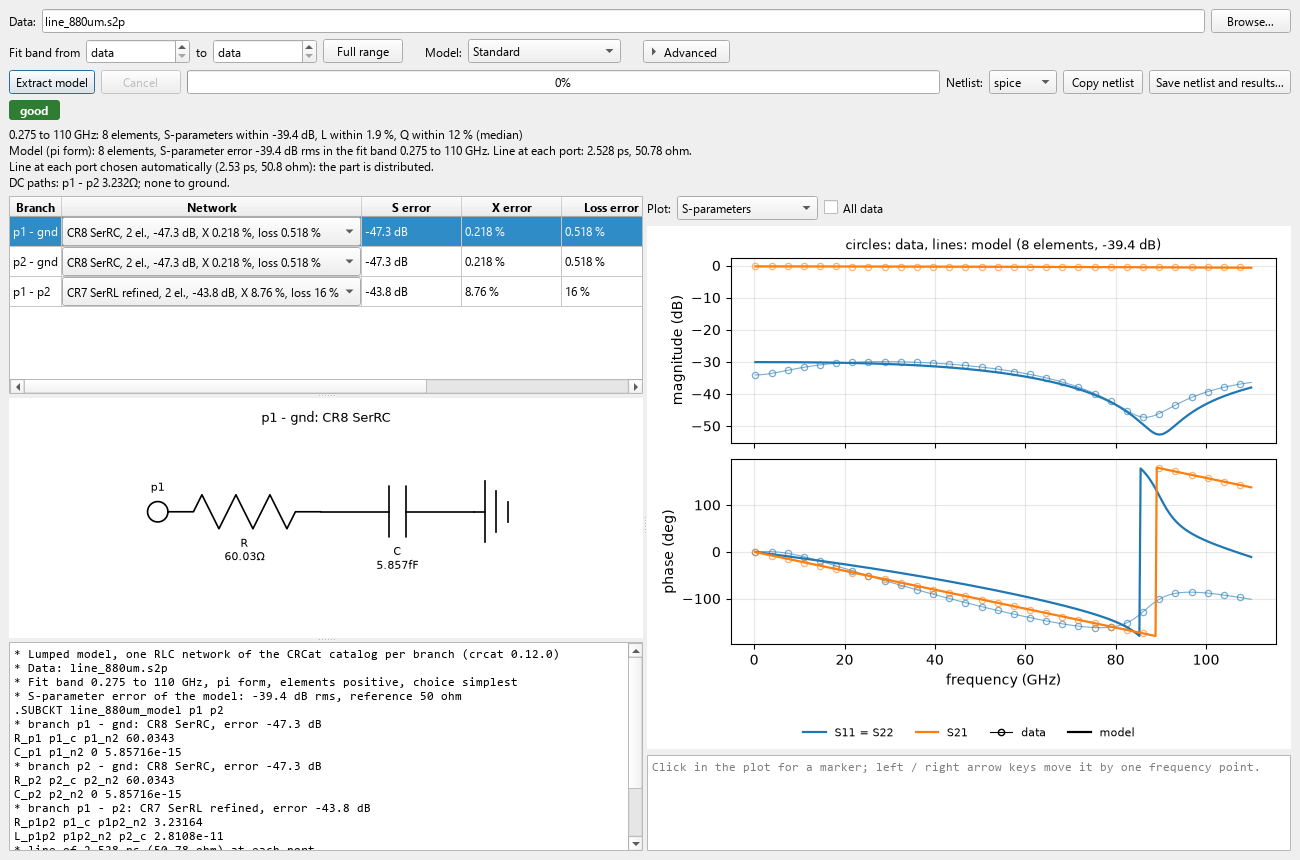
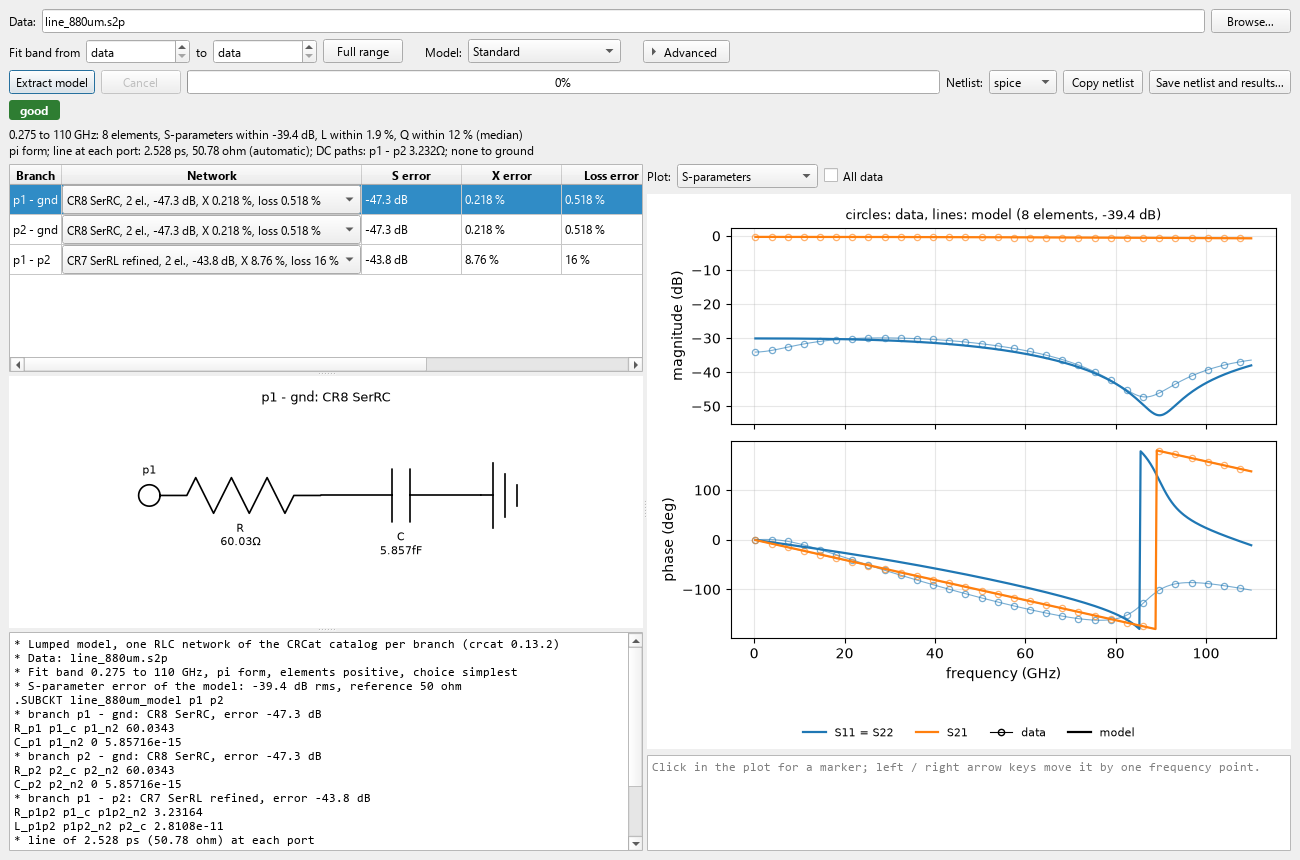
Window: shorter status text, details in the tooltip, 0.13.2
DataCheck.brief(): the data check in at most three short lines. After a fit
the status is the verdict line and one line on how the model is built; the
full texts are the tooltip.

diff --git a/src/crcat/check.py b/src/crcat/check.py
@@ -56,6 +56,7 @@ class DataCheck:
     def __init__(self):
         self.kind = self.verdict = self.form = None
         self.reasons, self.couplings, self.branches = [], [], {}
+        self.short = []                          # the reasons in a few words each
         self.fmax = self.srf = self.line = self.port_line = self.port_lines = None
         self.line_groups = []
         self.left_out = None
@@ -69,6 +70,18 @@ class DataCheck:
 
     def significant(self, form=None):
         return [b for b in self.branches.get(form or self.form, []) if not b.negligible]
+
+    def brief(self):
+        """The check in at most three short lines, for a window: what the data are, what
+        follows for the model, what was left out. :meth:`lines` has the details."""
+        out = [f'{self.kind}, {self.nports} port(s), {self.band[0] / 1e9:.3g} to '
+               f'{self.band[1] / 1e9:.3g} GHz, {self.points} points'
+               + (f', resonance at {self.srf / 1e9:.3g} GHz' if self.srf else '')]
+        out.append('; '.join(self.short))
+        if self.left_out:
+            out.append(f'{self.left_out[0]} points below {self.left_out[2] / 1e9:.3g} GHz left out '
+                       f'(DC only)')
+        return out
 
     def lines(self):
         """The check as a few lines of text."""
@@ -247,6 +260,8 @@ def check(network, fmin=None, fmax=None, target_db=-40.0, trim_low=True):
         c.reasons.append(f'{len(unphys)} of {len(signif)} branches of the data have a negative '
                          f'real part (in the {c.form} form), which no network of positive R, L, C '
                          f'gives: a structure of coupled or distributed conductors')
+        c.short.append(f'{len(unphys)} of {len(signif)} branches cannot be made of positive '
+                       f'R, L, C: coupled or distributed conductors')
     elif degrees > DISTRIBUTED_DEG:
         c.verdict = 'limited'
         c.reasons.append(f'the part is {degrees:.0f} deg long at {f[-1] / 1e9:.4g} GHz, distributed: '
@@ -254,16 +269,24 @@ def check(network, fmin=None, fmax=None, target_db=-40.0, trim_low=True):
                          f'{c.fmax / 1e9:.3g} GHz ({LUMPED_DEG} deg); for the whole band a line of '
                          f'{c.port_line["z0"]:.3g} ohm and {c.port_line["delay"] * 1e12:.3g} ps at each '
                          f'port is tried')
+        c.short.append(f'{degrees:.0f} deg long at {f[-1] / 1e9:.3g} GHz: a line at each port '
+                       f'is added ({c.port_line["z0"]:.3g} ohm, '
+                       f'{c.port_line["delay"] * 1e12:.3g} ps)')
     elif left:
         c.verdict = 'limited'
         c.reasons.append('branch ' + ', '.join(b.name for b in left) + ' of the data has a negative '
                          'real part; a narrower band or negative L and C may be needed')
+        c.short.append('branch ' + ', '.join(b.name for b in left) + ' has a negative real part: '
+                       'try a narrower band or negative L and C')
     else:
         c.verdict = 'suited'
         c.reasons.append(f'{len(signif)} branch(es) to model in the {c.form} form')
+        c.short.append(f'{len(signif)} branch' + ('' if len(signif) == 1 else 'es')
+                       + f', {c.form} form')
         for name in sorted({f'p{p[0]} - p{p[1]}' for p, _ in c.couplings}):
             c.reasons.append(f'magnetic coupling at branch {name} (k about {coupled[name]:.2f}): '
                              f'coupled coils will be tried')
+            c.short.append(f'coupled coils for {name} (k {coupled[name]:.2f})')
     if c.port_line:
         c.port_lines = [dict(c.port_line), dict(c.port_line)]
     if n > 2:
@@ -274,12 +297,17 @@ def check(network, fmin=None, fmax=None, target_db=-40.0, trim_low=True):
                     + f' are joined by conductors up to {max(g["degrees"] for g in long):.0f} deg '
                     f'long, distributed: a line at each of these ports is tried')
             c.verdict, c.reasons = 'limited', [text]     # the lines change what the rest is
+            c.short = ['ports ' + '; '.join(', '.join(f'p{p}' for p in g['ports']) for g in long)
+                       + f' are up to {max(g["degrees"] for g in long):.0f} deg apart: a line at '
+                       f'each of them is added']
     many = [b.name for b in signif if b.resonances > 2]
     if many and c.verdict != 'not suited':
         c.reasons.append('branch ' + ', '.join(many) + ' has more than two resonances in the band: '
                          'five elements may not be enough')
+        c.short.append(', '.join(many) + ': more than two resonances')
     if not c.passive:
         c.reasons.append('the data are not passive')
+        c.short.append('data not passive')
     return c
 
 

diff --git a/src/crcat/gui/main_window.py b/src/crcat/gui/main_window.py
@@ -404,7 +404,8 @@ class MainWindow(QMainWindow):
             self._show_verdict('', [])
             return
         self.data_check = c
-        self.status.setText(pathlib.Path(self._loaded).name + ': ' + '\n'.join(c.lines()))
+        self.status.setText(pathlib.Path(self._loaded).name + ': ' + '\n'.join(c.brief()))
+        self.status.setToolTip('\n'.join(c.lines()))        # the details
         suggestions = []
         if c.fmax:
             suggestions.append(advice.Suggestion(f'Fit to {c.fmax / 1e9:.3g} GHz',
@@ -687,17 +688,21 @@ class MainWindow(QMainWindow):
             self.table.item(row, 4).setText(shown.loss_text() if branch else '-')
             self.table.item(row, 5).setText(shown.values_text())
         warnings = m.warnings()
-        text = (f'Model ({m.form} form): {m.n_elements()} elements, S-parameter error {m.error_db():.1f} dB rms '
-                f'in the fit band {m.freq[0] / 1e9:.6g} to {m.freq[-1] / 1e9:.6g} GHz.')
+        # one line for the result, one for how the model is built; details in the tooltip
+        parts = [f'{m.form} form']
         if m.delay:
-            text += ' ' + m.lines_text()[0].upper() + m.lines_text()[1:] + '.'
-        if m.line_note:
-            text += '\n' + m.line_note[0].upper() + m.line_note[1:] + '.'
-        text += '\n' + m.dc_text() + '.'
+            parts.append(m.lines_text() + (' (automatic)' if 'automatically' in m.line_note else ''))
+        elif m.line_note:
+            parts.append(m.line_note)
+        parts.append(m.dc_text())
+        if m.left_out:
+            parts.append(f'{m.left_out[0]} points below {m.left_out[2] / 1e9:.3g} GHz left out')
+        text = '; '.join(parts)
         if warnings:
             text += '\nWarning: ' + '\nWarning: '.join(warnings)
         self.assessment = a = advice.assess(m, self.network, self.data_check)
         self.status.setText(a.text + '\n' + text)
+        self.status.setToolTip('\n'.join(model.describe(m)))
         self._show_verdict(a.level, a.suggestions)
         self.copy_button.setEnabled(True)
         self.copy_button.setText('Copy netlist')

diff --git a/tests/test_easy.py b/tests/test_easy.py
@@ -81,6 +81,8 @@ def test_check_kinds_and_verdicts():
     assert abs(c.line['L'] - 0.4e-9) < 0.02e-9 and abs(c.line['C'] - 40e-15) < 2e-15
     assert c.srf is None and c.nports == 2 and c.points == 80 and c.passive
     assert c.lines()[0].endswith('inductor') and c.lines()[-1].startswith('suited')
+    assert c.brief() == ['inductor, 2 port(s), 0.5 to 40 GHz, 80 points', '3 branches, pi form']
+    assert sum(len(x) for x in c.brief()) < sum(len(x) for x in c.lines())
     cap = make_network(2, {(1, 2): ('SerRC', [1.0, 100e-15])}, f=f)
     assert check.check(cap).kind == 'capacitor'
     one = skrf.Network(str(DATA / 'XXXII-39.y1p'))
@@ -97,6 +99,8 @@ def test_check_finds_a_line_and_the_frequency_to_stop_at():
     assert 200 < c.line['degrees'] < 230
     assert abs(c.fmax - 100e9 * 45 / c.line['degrees']) < 1e6      # 45 deg
     assert 'distributed' in c.reasons[0]
+    assert ' deg long at 100 GHz: a line at each port is added (' in c.brief()[1]
+    assert len(c.brief()) == 2 and len(c.brief()[1]) < 0.5 * len(c.reasons[0])
     short = check.check(line(50.0, 6e-12, f, loss=0.01), fmax=30e9)   # 65 deg: not yet distributed
     assert short.verdict == 'suited' and short.fmax is None
 

diff --git a/tests/test_gui.py b/tests/test_gui.py
@@ -42,7 +42,7 @@ def test_gui_extract_and_save(app, tmp_path):
     assert not win.run_button.isEnabled()
     wait_for(app, lambda: win.model is not None and win.worker is None)
     assert win.table.rowCount() == 3 and win.save_button.isEnabled()
-    assert win.model.error_db() < -150 and 'Model (pi form): 5 elements' in win.status.text()
+    assert win.model.error_db() < -150 and 'pi form; DC paths' in win.status.text() and 'model (pi form): 5 elements' in win.status.toolTip()
     assert '.SUBCKT dut_model p1 p2' in win.netlist_view.toPlainText()
     # the schematic shows the selected row
     def shown():

diff --git a/src/crcat/__init__.py b/src/crcat/__init__.py
@@ -5,7 +5,7 @@ to five elements, with closed-form synthesis equations and transforms between eq
 networks.
 """
 
-__version__ = '0.13.1'
+__version__ = '0.13.2'
 
 from .catalog import Catalog, Network, load                       # noqa: E402
 from .component import Component, format_value                   # noqa: E402
